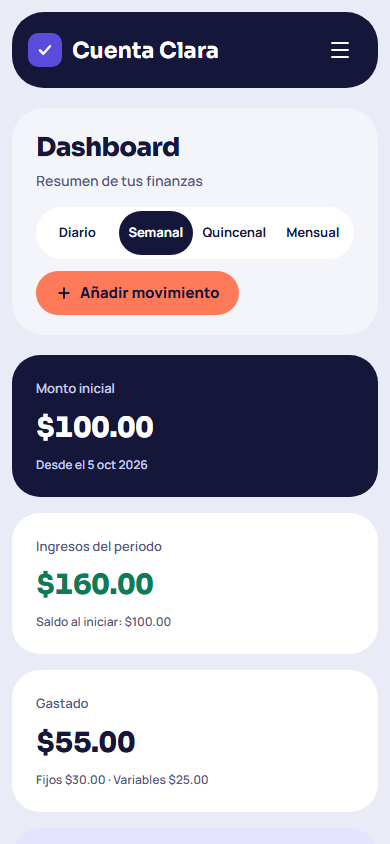
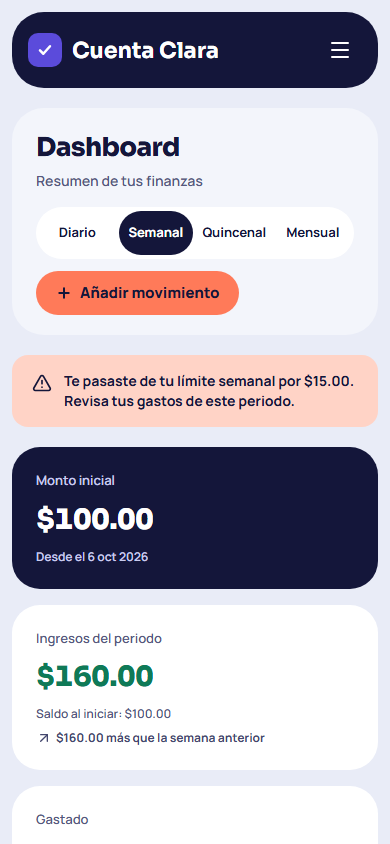
docs: document phase 9 features, decisions and screenshots

Changed region(s): [[0.0308, 0.4005, 0.9846, 1.0]]

diff --git a/docs/decisions.md b/docs/decisions.md
@@ -214,3 +214,27 @@ Recharts funciona con la CSP estricta (D-033): la gráfica se renderiza en el cl
 ## D-050 · Selector de periodo en grilla en móviles
 
 **Fase 8.** En 375 px los cuatro botones Diario/Semanal/Quincenal/Mensual se partían en dos líneas. En pantallas pequeñas se muestran como una grilla de 4 columnas a todo el ancho, y desde `sm` vuelven a ser píldoras en línea. El problema apareció al revisar las capturas generadas por Playwright.
+
+## D-051 · Metas de ahorro: seguimiento, no movimiento de saldo
+
+**Fase 9.** Una meta registra cuánto se apartó para algo, pero **aportar no resta del saldo disponible**: el dinero apartado sigue siendo del usuario y suele estar en la misma cuenta. Así no hay doble conteo con las transacciones. Cada meta muestra su progreso y, si tiene fecha objetivo, **cuánto apartar por periodo** (el periodo del usuario) para llegar a tiempo: lo que falta dividido entre los periodos restantes, contando el actual y redondeando hacia arriba al centavo. Se calcula en el backend con una función pura (`services/savings.py`). Retirar más de lo ahorrado se rechaza con 422.
+
+## D-052 · Alerta al 80 % del límite
+
+**Fase 9.** `/dashboard` devuelve `limit_status`: `none`, `ok`, `warning` (80 % o más del límite usado) u `over`. Con `warning` u `over`, el dashboard muestra un aviso con `role="status"`, icono y texto ("Atención: llevas el 85 % de tu límite semanal. Te quedan $6.00"). El umbral está en una constante (`WARNING_PERCENT`).
+
+## D-053 · Comparación con el periodo anterior
+
+**Fase 9.** `/dashboard` incluye ingresos y gasto del periodo anterior. Las tarjetas muestran la diferencia con flecha y palabras ("$15.00 menos que la semana anterior"), sin colores de "bueno/malo": gastar más no siempre es malo y el color solo confundiría. La resta se hace en centavos enteros (`subtractMoney`) para no usar floats con dinero.
+
+## D-054 · Gasto por categoría con barras de un solo color
+
+**Fase 9.** Suma gastos fijos y variables del periodo por categoría, de mayor a menor ("Sin categoría" al final en empates). Las barras horizontales son todas del mismo color porque comparan magnitudes; la identidad la da el nombre, y el color de cada categoría aparece como punto en la tabla. Valor al final de cada barra y tabla equivalente.
+
+## D-055 · Exportar a CSV de forma segura
+
+**Fase 9.** `GET /transactions/export` devuelve los movimientos del usuario con los mismos filtros que la lista (máximo 10 000 filas). Para que un archivo abierto en Excel no ejecute nada, cualquier texto del usuario que empiece con `= + - @`, tabulación o retorno se prefija con `'` (*CSV/formula injection*). Los montos son números con signo (gastos negativos), no texto del usuario. Lleva BOM UTF-8 para que Excel muestre bien las tildes.
+
+## D-056 · Predicción con regresión lineal, opcional y explicable
+
+**Fase 9.** El "aprendizaje automático sencillo" es una regresión lineal por mínimos cuadrados (`services/trend.py`, sin dependencias) sobre el gasto variable de hasta 8 periodos completos. Se proyecta la línea hacia adelante, nunca por debajo de 0. Es **opcional** (`estimator=trend`) y la página explica qué encontró: cuánto sube o baja el gasto por periodo y el R². Con menos de 3 periodos completos usa el promedio y lo dice. Se eligió algo pequeño y explicable en vez de un modelo opaco: con el historial de una persona, una línea es honesta sobre lo poco que se puede predecir.

diff --git a/README.md b/README.md
@@ -8,9 +8,13 @@ Proyecto personal de portafolio: backend en FastAPI, frontend en Next.js, Postgr
 
 ![Dashboard de Cuenta Clara: tarjetas de saldo, gráfica de gasto contra límite y gastos de la semana](docs/screenshots/dashboard.png)
 
-| Landing | Registro | Predicción | Móvil |
-| --- | --- | --- | --- |
-| ![Landing](docs/screenshots/landing.png) | ![Registro con requisitos de contraseña en vivo](docs/screenshots/registro.png) | ![Predicción de saldo por semana](docs/screenshots/prediccion.png) | ![Dashboard en móvil](docs/screenshots/dashboard-movil.png) |
+| Landing | Registro | Predicción |
+| --- | --- | --- |
+| ![Landing](docs/screenshots/landing.png) | ![Registro con requisitos de contraseña en vivo](docs/screenshots/registro.png) | ![Predicción de saldo por semana](docs/screenshots/prediccion.png) |
+
+| Metas de ahorro | Reportes | Móvil |
+| --- | --- | --- |
+| ![Metas de ahorro con progreso](docs/screenshots/metas.png) | ![Reportes: comparación y gasto por categoría](docs/screenshots/reportes.png) | ![Dashboard en móvil](docs/screenshots/dashboard-movil.png) |
 
 ## ¿Qué hace?
 
@@ -29,6 +33,11 @@ Ejemplo: monto inicial $100, gasto semanal $30 → quedan $70. Si ese periodo in
 - **Movimientos** sueltos con filtros por fecha, tipo y categoría.
 - **Predicción** del saldo para los próximos 4, 8 o 12 periodos.
 - **Configuración:** monto inicial, moneda, periodo, límite y categorías propias.
+- **Metas de ahorro** con progreso y cuánto apartar por periodo para llegar a la fecha.
+- **Alerta al 80 % del límite** y **comparación con el periodo anterior** en el dashboard.
+- **Gasto por categoría** y **reportes** que comparan periodos.
+- **Exportar a CSV**, protegido contra inyección de fórmulas.
+- **Predicción con tendencia:** regresión lineal sobre tu historial, explicada en la propia página.
 
 ## Stack
 
@@ -121,7 +130,7 @@ cuenta-clara/
 - [x] **Fase 6:** onboarding y dashboard
 - [x] **Fase 7:** resto de pantallas
 - [x] **Fase 8:** pulido, accesibilidad, E2E y documentación
-- [ ] **Fase 9** (ideas, pendientes de aprobación): metas de ahorro, alertas al 80 % del límite, comparación con el periodo anterior, gráfico por categoría, exportar a CSV, predicción con aprendizaje automático
+- [x] **Fase 9:** metas de ahorro, alertas al 80 % del límite, comparación con el periodo anterior, gasto por categoría, exportar a CSV y predicción con regresión lineal
 
 ## Calidad y pruebas
 

diff --git a/docs/testing.md b/docs/testing.md
@@ -19,6 +19,7 @@ pytest                   # requiere TEST_DATABASE_URL (se borra en cada corrida)
 - **Cálculos puros** (`test_periods.py`, `test_projections.py`): periodos, meses cortos, bisiestos, saldo que se arrastra entre periodos, límite, predicción y el ejemplo 100 − 30 + 160 = 230.
 - **API** de cada recurso, con validación y casos borde.
 - **Seguridad:** tokens falsificados, sin firma o expirados; CSRF; rate limiting; bloqueo temporal; reutilización de refresh tokens; cabeceras y CORS.
+- **Fase 9** (`test_phase9_calculations.py`, `test_phase9_api.py`): plan de metas por periodo, alerta al 80 %, periodo anterior, gasto por categoría, regresión lineal (pendiente, R², mínimo de puntos, nunca negativa) y CSV con inyección de fórmulas neutralizada.
 - **Anti-IDOR** (`test_idor.py`): otro usuario no puede leer, editar, borrar ni listar recursos ajenos. Se verificó rompiendo el filtro a propósito y viendo fallar los tests.
 - **Migraciones:** los modelos coinciden con las migraciones, y estas se pueden revertir y volver a aplicar.
 
@@ -46,6 +47,9 @@ E2E_BASE_URL=http://localhost:3000 npm run e2e
   - Añade un gasto y aparece "Te pasaste por $15.00".
   - El periodo elegido queda en la URL.
   - Pausar un ingreso actualiza el saldo.
+  - Crea una meta de ahorro, aporta y ve el progreso; retirar de más muestra el error de la API.
+  - En Reportes compara periodos y descarga un CSV cuyo contenido se verifica.
+  - La predicción cambia a "Tendencia" y explica el resultado.
   - Visita todas las pantallas y cierra sesión.
 - **Seguridad en el navegador real:**
   - JavaScript no puede leer las cookies de sesión.
@@ -53,6 +57,7 @@ E2E_BASE_URL=http://localhost:3000 npm run e2e
   - Credenciales incorrectas muestran un error genérico.
 - **Accesibilidad:**
   - `expectAccessible()` corre axe con las reglas WCAG 2.0/2.1/2.2 A y AA en todas las pantallas, públicas y privadas, y falla ante cualquier violación.
+  - Antes de auditar se espera a que la red quede inactiva y terminen las transiciones finitas: así axe no mide un color a mitad de animación.
   - Además se prueba el enlace "Saltar al contenido" con teclado y que en un ancho de 375 px no haya scroll horizontal.
 - Las pruebas crean sus propios usuarios con correos únicos y usan un solo worker, porque la API limita los logins por IP.
 

diff --git a/frontend/README.md b/frontend/README.md
@@ -9,7 +9,7 @@ frontend/
 ├─ src/
 │  ├─ app/                 # rutas públicas: /, /login, /register, /recuperar-contrasena
 │  │  ├─ (auth)/           # layout compartido de login y registro
-│  │  ├─ (app)/            # rutas privadas con barra lateral: /dashboard, /ingresos, /gastos…
+│  │  ├─ (app)/            # rutas privadas con barra lateral: /dashboard, /ingresos, /gastos, /metas, /reportes…
 │  │  ├─ onboarding/       # asistente de 4 pasos del primer ingreso
 │  │  ├─ globals.css       # tokens de diseño (@theme) y estilos base
 │  │  └─ layout.tsx        # fuentes Sora + Manrope (next/font)
@@ -17,14 +17,14 @@ frontend/
 │  │  ├─ landing/          # secciones de la landing (componentes de servidor)
 │  │  ├─ auth/             # formularios de acceso (componentes de cliente)
 │  │  ├─ app/              # sesión, barra lateral, encabezado de página
-│  │  ├─ dashboard/        # tarjetas, gráfica gasto vs. límite, tabla de gastos del periodo
-│  │  ├─ finance/          # Ingresos, Gastos, Gastos fijos, Predicción, Configuración y sus diálogos
+│  │  ├─ dashboard/        # tarjetas, gráfica gasto vs. límite, tabla de gastos del periodo, gasto por categoría
+│  │  ├─ finance/          # Ingresos, Gastos, Gastos fijos, Metas, Reportes, Predicción, Configuración y sus diálogos
 │  │  ├─ onboarding/       # pasos del asistente
 │  │  └─ ui/               # botones, campos, diálogos, avisos, estados vacíos
 │  ├─ lib/
 │  │  ├─ api.ts            # cliente de la API (CSRF, refresh automático, errores)
-│  │  ├─ finance-api.ts    # llamadas tipadas: ajustes, categorías, movimientos, dashboard
-│  │  ├─ format.ts         # dinero ($1,234.50) y fechas locales
+│  │  ├─ finance-api.ts    # llamadas tipadas: ajustes, categorías, movimientos, metas, dashboard, exportación
+│  │  ├─ format.ts         # dinero ($1,234.50, restas en centavos) y fechas locales
 │  │  ├─ use-resource.ts   # carga de datos en el cliente con estados de carga y error
 │  │  └─ validation.ts     # esquemas Zod (reflejan la política del backend)
 │  └─ proxy.ts             # Content-Security-Policy con nonce por petición

diff --git a/docs/calculations.md b/docs/calculations.md
@@ -74,3 +74,29 @@ cierre = apertura + ingresos recurrentes − gastos fijos − gasto variable pro
 - Siempre `Decimal` y `NUMERIC(12,2)`, nunca float.
 - Redondeo a centavos `ROUND_HALF_UP`, solo al final de cada cálculo.
 - En JSON los montos viajan como texto: `"230.00"`.
+
+## Alerta, comparación y categorías (Fase 9)
+
+- **`limit_status`:** `warning` desde el 80 % del límite usado; `over` al pasarlo, con el mismo criterio estricto de antes.
+- **Periodo anterior:** los mismos totales para el periodo inmediatamente anterior, y la misma regla de `balance_as_of`: lo anterior a esa fecha cuenta como 0.
+- **Por categoría:** gastos fijos (según su categoría) y variables del periodo, agrupados. Los ingresos no se incluyen.
+
+## Metas de ahorro
+
+```
+falta            = max(meta − ahorrado, 0)
+periodos_restantes = periodos desde el actual hasta el que contiene la fecha objetivo (inclusive)
+por_periodo      = ⌈ falta / periodos_restantes ⌉   (al centavo)
+```
+
+Ejemplo semanal, miércoles 7 de octubre, meta $200 con $100 ahorrados para el domingo 25: quedan 3 semanas (la actual y 2 más) → $100 / 3 = **$33.34** por semana.
+
+## Predicción con tendencia (`estimator=trend`)
+
+1. Toma el gasto variable de hasta 8 periodos **completos** desde `balance_as_of` (x = 0, 1, …, n−1).
+2. Ajusta una recta por mínimos cuadrados: `pendiente = Σ(x−x̄)(y−ȳ) / Σ(x−x̄)²`, `intercepto = ȳ − pendiente · x̄`.
+3. El periodo actual es x = n. Para el periodo futuro k se estima `intercepto + pendiente · (n + k)`, nunca menos de 0.
+4. **R²** (de 0 a 1) indica qué tanto explica la recta el historial; la página lo muestra.
+5. Con menos de 3 periodos se usa el promedio, y la respuesta lo indica (`estimator: "average"`).
+
+Ejemplo: gastos de 10, 20 y 30 en tres semanas → pendiente 10, R² 1. La semana actual es x = 3, así que las dos siguientes se estiman en **50** y **60**.

diff --git a/backend/README.md b/backend/README.md
@@ -73,7 +73,11 @@ Nunca se modifica la base a mano: todo cambio de esquema es una migración.
 | `GET` / `POST` | `/api/v1/transactions` | Movimientos. Filtros: `from`, `to`, `type`, `category_id`; paginación `limit` (≤ 100) y `offset` |
 | `GET` / `PUT` / `DELETE` | `/api/v1/transactions/{id}` | |
 | `GET` | `/api/v1/dashboard` | Saldo, ingresos y gastos del periodo, límite, serie de 6 periodos, próximos gastos fijos y últimos movimientos. Parámetros: `period` (`daily`/`weekly`/`biweekly`/`monthly`) y `date` |
-| `GET` | `/api/v1/forecast` | Saldo proyectado por periodo. Parámetros: `periods` (1–12, por defecto 4), `period` y `date` |
+| `GET` | `/api/v1/forecast` | Saldo proyectado por periodo. Parámetros: `periods` (1–12, por defecto 4), `period`, `date` y `estimator` (`average` o `trend`) |
+| `GET` / `POST` | `/api/v1/savings-goals` | Metas de ahorro con progreso y plan por periodo (`?date=` para el plan) |
+| `PUT` / `DELETE` | `/api/v1/savings-goals/{id}` | |
+| `POST` | `/api/v1/savings-goals/{id}/contributions` | Aportar (monto positivo) o retirar (negativo); nunca por debajo de 0 |
+| `GET` | `/api/v1/transactions/export` | CSV de movimientos con los mismos filtros que la lista |
 
 Todas las rutas de datos requieren sesión y solo ven los datos del usuario autenticado. Un recurso ajeno responde `404`.
 

diff --git a/docs/security.md b/docs/security.md
@@ -112,6 +112,12 @@ Exentos: `login` y `register`, que crean la sesión y por eso aún no hay cookie
 - En producción la app **no arranca** si `COOKIE_SECURE=false`.
 - Los logs registran **IDs de usuario**, nunca correos, contraseñas ni tokens. El healthcheck no devuelve detalles de conexión a la base.
 
+### Exportación a CSV (Fase 9)
+
+- Solo exporta los movimientos del usuario autenticado. Cubierto por `test_export_only_includes_the_callers_data`.
+- **Protección contra inyección de fórmulas:** cualquier texto del usuario (notas, nombres de categoría) que empiece con `= + - @`, tabulación o retorno se prefija con `'`. Así una nota como `=HYPERLINK(...)` no se ejecuta al abrir el archivo en Excel o Google Sheets.
+  → `app/services/export.py` · `tests/test_phase9_api.py`
+
 ## 9. Dependencias
 
 - Versiones exactas: `==` en `pyproject.toml` y sin rangos en `package.json`, más `package-lock.json`.
